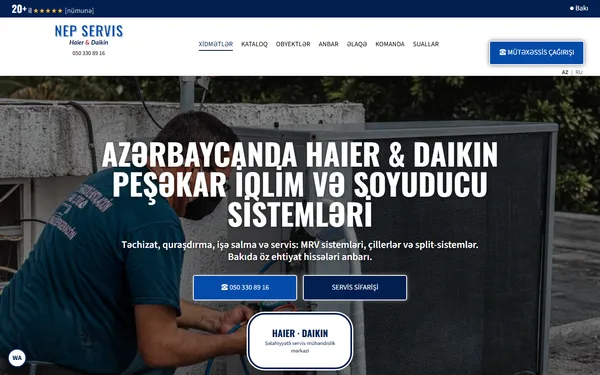
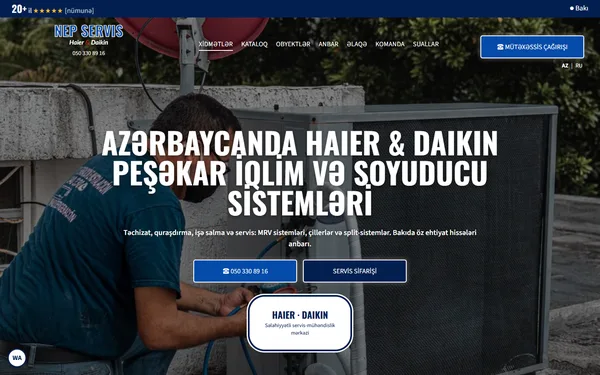
Витрина: обновлён 05 (пропорции по замерам), новая миниатюра

diff --git a/05-arcticair/ru/index.html b/05-arcticair/ru/index.html
@@ -86,6 +86,23 @@ footer .bot{margin-top:36px;border-top:1px solid rgba(255,255,255,.25);padding:2
 @media(max-width:1100px){header.top{grid-template-columns:1fr auto;height:auto;padding:10px 16px}nav.main{display:none;grid-column:1/-1;padding:10px 0}nav.main.open{display:flex}.hdr-r{padding-top:0;flex-direction:row;align-items:center}.hdr-r .bn{display:none}.menu-btn{display:block;color:var(--navy)}.cols2,.bk{grid-template-columns:1fr}.cards,.rvg,.tips{grid-template-columns:repeat(2,1fr)}footer .fg{grid-template-columns:1fr 1fr}.hero{margin-top:0;padding-top:0}.hero .in{padding-top:70px}}
 @media(max-width:640px){.w{padding:0 16px}.srv{margin:0 10px;padding:40px 14px}.hero{min-height:700px}.hero h1{font-size:34px}.hero p{font-size:18px}.bn.big{min-width:100%}.hero .row{flex-direction:column;align-items:stretch;padding:0 6px}.cards,.rvg,.tips,.checks,footer .fg{grid-template-columns:1fr}.tilt{flex-direction:column}.tilt .ph{margin:0!important;aspect-ratio:4/3}h2.sh{font-size:26px}.strip{font-size:14px;padding:0 12px}.sec{padding:50px 0}.logo b{font-size:26px}.award{width:180px;min-height:200px;border-radius:90px;font-size:18px}.polar{display:none}}
 @media(prefers-reduced-motion:reduce){*{animation:none!important;transition:none!important}.reveal{opacity:1;transform:none}}
+/* пропорции по замерам образца (1440/1920), только широкий экран */
+@media(min-width:1101px){
+.strip{position:relative;z-index:31}
+header.top{background:transparent;position:relative;z-index:30}
+nav.main a,.logo small,.logo i,.lang,.lang a,.lang b{color:#fff;text-shadow:0 1px 5px rgba(0,0,0,.8)}
+nav.main a:hover,nav.main a.cur{border-color:#fff;color:#fff}
+.w{max-width:none}
+.hero{margin-top:-182px;padding-top:182px;min-height:100vh}
+.hero .in{padding-top:max(40px,calc(123px + (100vh - 900px)*.661))}
+.srv>*{max-width:calc(1264px + (100vw - 1440px)*.148);margin-left:auto;margin-right:auto}
+.cards{max-width:calc(1200px + (100vw - 1440px)*.146);margin-left:auto;margin-right:auto}
+.ck h3{font-size:24px}
+.cards{gap:76px}
+.hero p{font-size:18px;line-height:27px;max-width:900px;margin:24px auto 24px}
+.bn{font-size:16px;padding:10px 17px;min-height:55px;min-width:249px}.bn.big{min-width:249px;padding:10px 17px}
+.hdr-r{padding-top:29px}
+}
 </style></head><body>
 <a class="skip" href="#main">К содержимому</a>
 <div class="strip"><span><b>20+</b> лет <span class="st">★★★★★</span> <span style="opacity:.7">[пример]</span></span><span>&#9679; Баку</span></div>

diff --git a/05-arcticair/index.html b/05-arcticair/index.html
@@ -86,6 +86,23 @@ footer .bot{margin-top:36px;border-top:1px solid rgba(255,255,255,.25);padding:2
 @media(max-width:1100px){header.top{grid-template-columns:1fr auto;height:auto;padding:10px 16px}nav.main{display:none;grid-column:1/-1;padding:10px 0}nav.main.open{display:flex}.hdr-r{padding-top:0;flex-direction:row;align-items:center}.hdr-r .bn{display:none}.menu-btn{display:block;color:var(--navy)}.cols2,.bk{grid-template-columns:1fr}.cards,.rvg,.tips{grid-template-columns:repeat(2,1fr)}footer .fg{grid-template-columns:1fr 1fr}.hero{margin-top:0;padding-top:0}.hero .in{padding-top:70px}}
 @media(max-width:640px){.w{padding:0 16px}.srv{margin:0 10px;padding:40px 14px}.hero{min-height:700px}.hero h1{font-size:34px}.hero p{font-size:18px}.bn.big{min-width:100%}.hero .row{flex-direction:column;align-items:stretch;padding:0 6px}.cards,.rvg,.tips,.checks,footer .fg{grid-template-columns:1fr}.tilt{flex-direction:column}.tilt .ph{margin:0!important;aspect-ratio:4/3}h2.sh{font-size:26px}.strip{font-size:14px;padding:0 12px}.sec{padding:50px 0}.logo b{font-size:26px}.award{width:180px;min-height:200px;border-radius:90px;font-size:18px}.polar{display:none}}
 @media(prefers-reduced-motion:reduce){*{animation:none!important;transition:none!important}.reveal{opacity:1;transform:none}}
+/* пропорции по замерам образца (1440/1920), только широкий экран */
+@media(min-width:1101px){
+.strip{position:relative;z-index:31}
+header.top{background:transparent;position:relative;z-index:30}
+nav.main a,.logo small,.logo i,.lang,.lang a,.lang b{color:#fff;text-shadow:0 1px 5px rgba(0,0,0,.8)}
+nav.main a:hover,nav.main a.cur{border-color:#fff;color:#fff}
+.w{max-width:none}
+.hero{margin-top:-182px;padding-top:182px;min-height:100vh}
+.hero .in{padding-top:max(40px,calc(123px + (100vh - 900px)*.661))}
+.srv>*{max-width:calc(1264px + (100vw - 1440px)*.148);margin-left:auto;margin-right:auto}
+.cards{max-width:calc(1200px + (100vw - 1440px)*.146);margin-left:auto;margin-right:auto}
+.ck h3{font-size:24px}
+.cards{gap:76px}
+.hero p{font-size:18px;line-height:27px;max-width:900px;margin:24px auto 24px}
+.bn{font-size:16px;padding:10px 17px;min-height:55px;min-width:249px}.bn.big{min-width:249px;padding:10px 17px}
+.hdr-r{padding-top:29px}
+}
 </style></head><body>
 <a class="skip" href="#main">Məzmuna keç</a>
 <div class="strip"><span><b>20+</b> il <span class="st">★★★★★</span> <span style="opacity:.7">[nümunə]</span></span><span>&#9679; Bakı</span></div>
